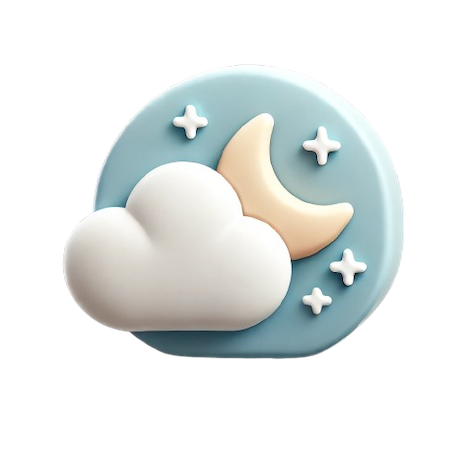
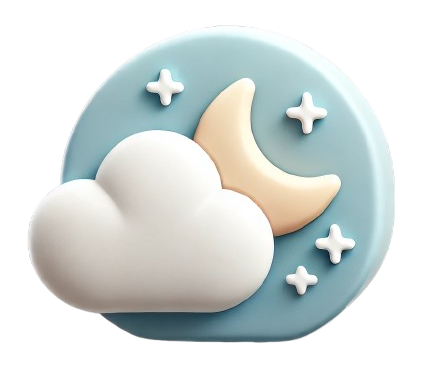
[feat] 홈-세션2 화면 구성 최종

diff --git a/lib/screens/home/session_card.dart b/lib/screens/home/session_card.dart
@@ -71,8 +71,8 @@ class SessionCard extends StatelessWidget {
   }) {
     return Container(
       width: 130,
-      height: 130,
-      padding: const EdgeInsets.symmetric(horizontal: 8, vertical: 10),
+      height: 150,
+      padding: const EdgeInsets.symmetric(horizontal: 8, vertical: 1),
       decoration: BoxDecoration(
         color: Colors.white,
         borderRadius: BorderRadius.circular(5),
@@ -94,13 +94,14 @@ class SessionCard extends StatelessWidget {
       child: Column(
         crossAxisAlignment: CrossAxisAlignment.start,
         children: [
-          Expanded(
+          AspectRatio(
+            aspectRatio: 1.2,
             child: Container(
               width: double.infinity,
               decoration: BoxDecoration(
                 image: DecorationImage(
                   image: AssetImage(imagePath),
-                  fit: BoxFit.scaleDown,
+                  fit: BoxFit.contain,
                 ),
               ),
             ),

diff --git a/lib/screens/home/session_day.dart b/lib/screens/home/session_day.dart
@@ -32,7 +32,7 @@ class SessionDay extends StatelessWidget {
     return Container(
       height: screenHeight / 3,
       width: double.infinity,
-      color: const Color.fromARGB(231, 243, 243, 243),
+      color: const Color.fromARGB(231, 154, 148, 148),
       padding: const EdgeInsets.all(24),
       child: Column(
         crossAxisAlignment: CrossAxisAlignment.start,
